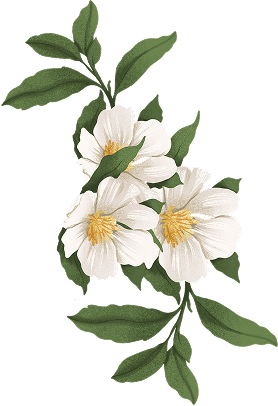
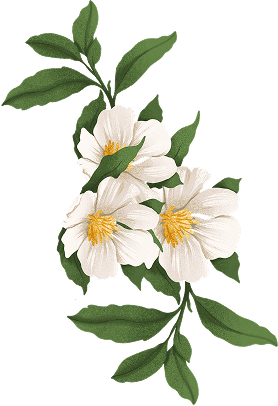
image optimisations

Changed region(s): [[0.5755, 0.5025, 0.6906, 0.6207], [0.3165, 0.532, 0.4029, 0.6207], [0.3741, 0.3547, 0.4317, 0.3842]]

diff --git a/src/components/HomeClient.tsx b/src/components/HomeClient.tsx
@@ -378,14 +378,6 @@ export default function HomeClient({ locale }: HomeClientProps) {
                     <h2 className="text-4xl font-bold">{contact('title')}</h2>
                     <p className="text-2xl">{contact('description')}</p>
 
-                    {submitResult && (
-                        <div className={`p-4 my-4 text-2xl rounded-md ${submitResult.success
-                            ? 'bg-green-800 text-green-200'
-                            : 'bg-red-900 text-red-200'}`}>
-                            {submitResult.message}
-                        </div>
-                    )}
-
                     <form onSubmit={handleSubmit}>
                         <div className="text-3xl flex flex-col gap-4">
                             <label htmlFor="name">{contact('form.name')}</label>
@@ -394,6 +386,15 @@ export default function HomeClient({ locale }: HomeClientProps) {
                             <input className="bg-[var(--background)] text-green-800 border-2 border-green-800 px-4 py-2 rounded-md" type="email" id="email" name="email" required />
                             <label htmlFor="message">{contact('form.message')}</label>
                             <textarea rows={5} className="bg-[var(--background)] text-green-800 border-2 border-green-800 px-4 py-2 rounded-md" id="message" name="message" required />
+
+                            {submitResult && (
+                                <div className={`p-4 my-4 text-2xl rounded-md ${submitResult.success
+                                    ? 'bg-green-800 text-green-200'
+                                    : 'bg-red-900 text-red-200'}`}>
+                                    {submitResult.message}
+                                </div>
+                            )}
+
                             <button
                                 className={`mt-8 px-4 py-2 rounded-md flex items-center justify-center transition-colors ${isSubmitting
                                     ? 'bg-green-800/25 text-green-200 cursor-not-allowed'

diff --git a/src/app/api/contact/route.ts b/src/app/api/contact/route.ts
@@ -134,7 +134,7 @@ export async function POST(request: Request) {
         const mailOptions = {
           from: process.env.SMTP_USER,
           to: process.env.RECIPIENT_EMAIL,
-          // cc: process.env.CC_EMAIL,
+          cc: process.env.CC_EMAIL,
           subject: `Wedding Message from ${name}`,
           text: `
               Name: ${name}
